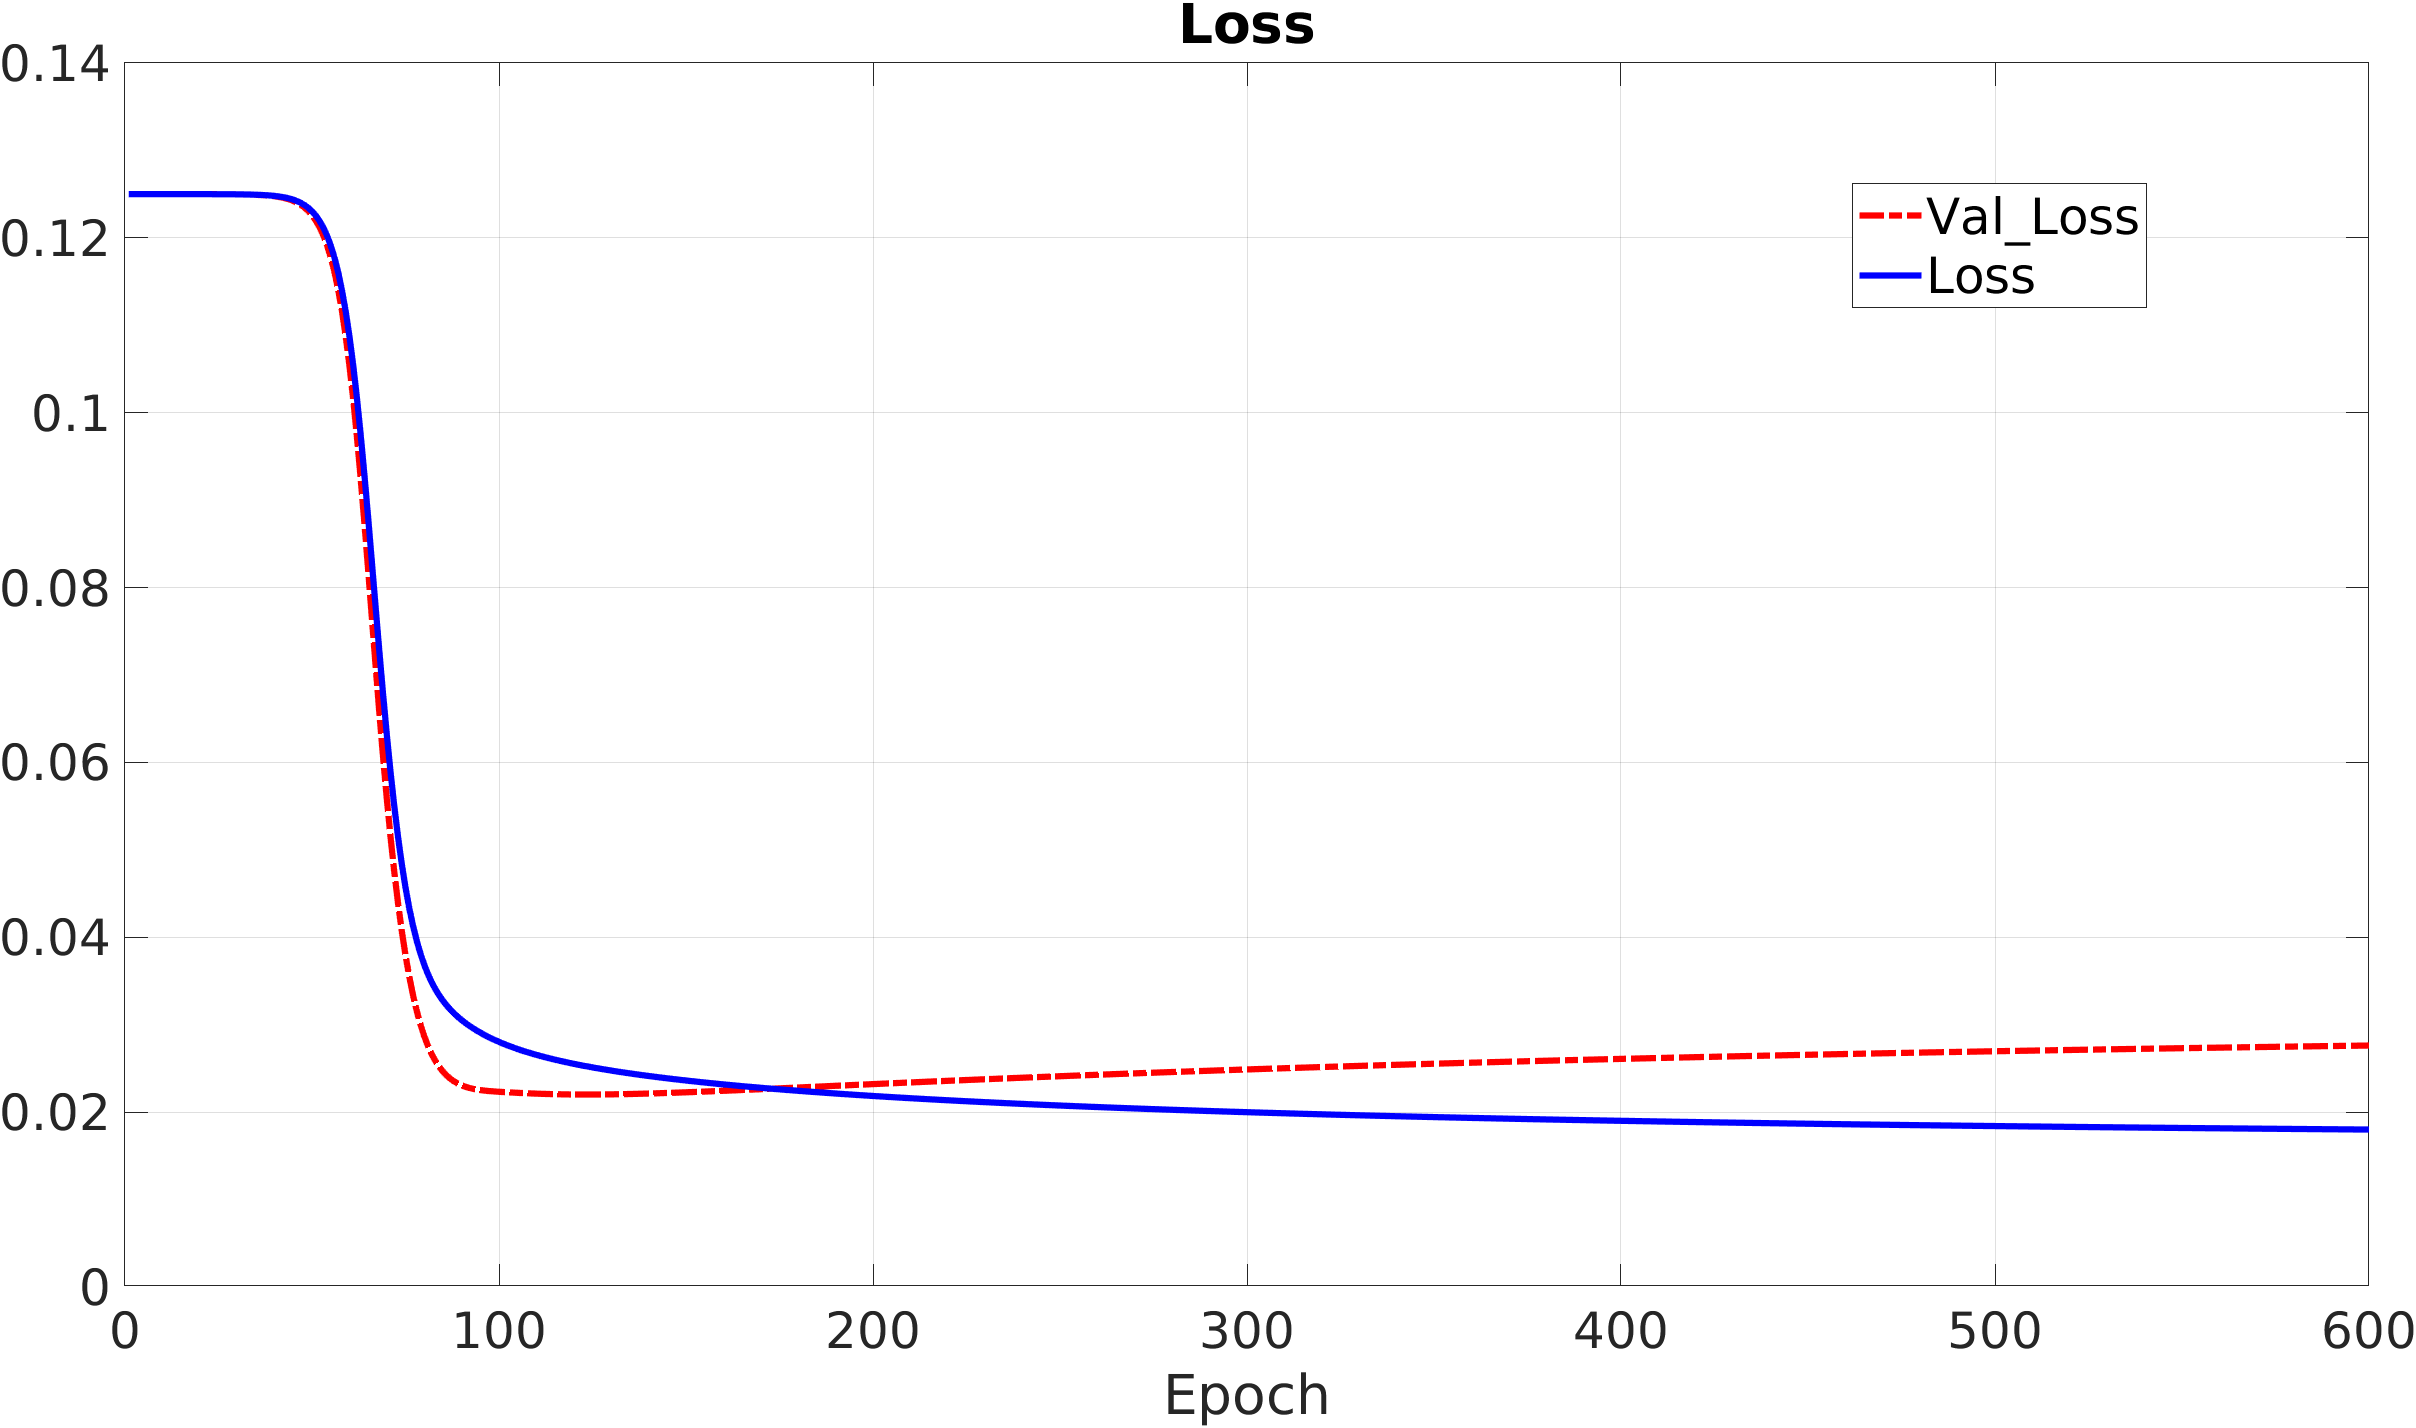
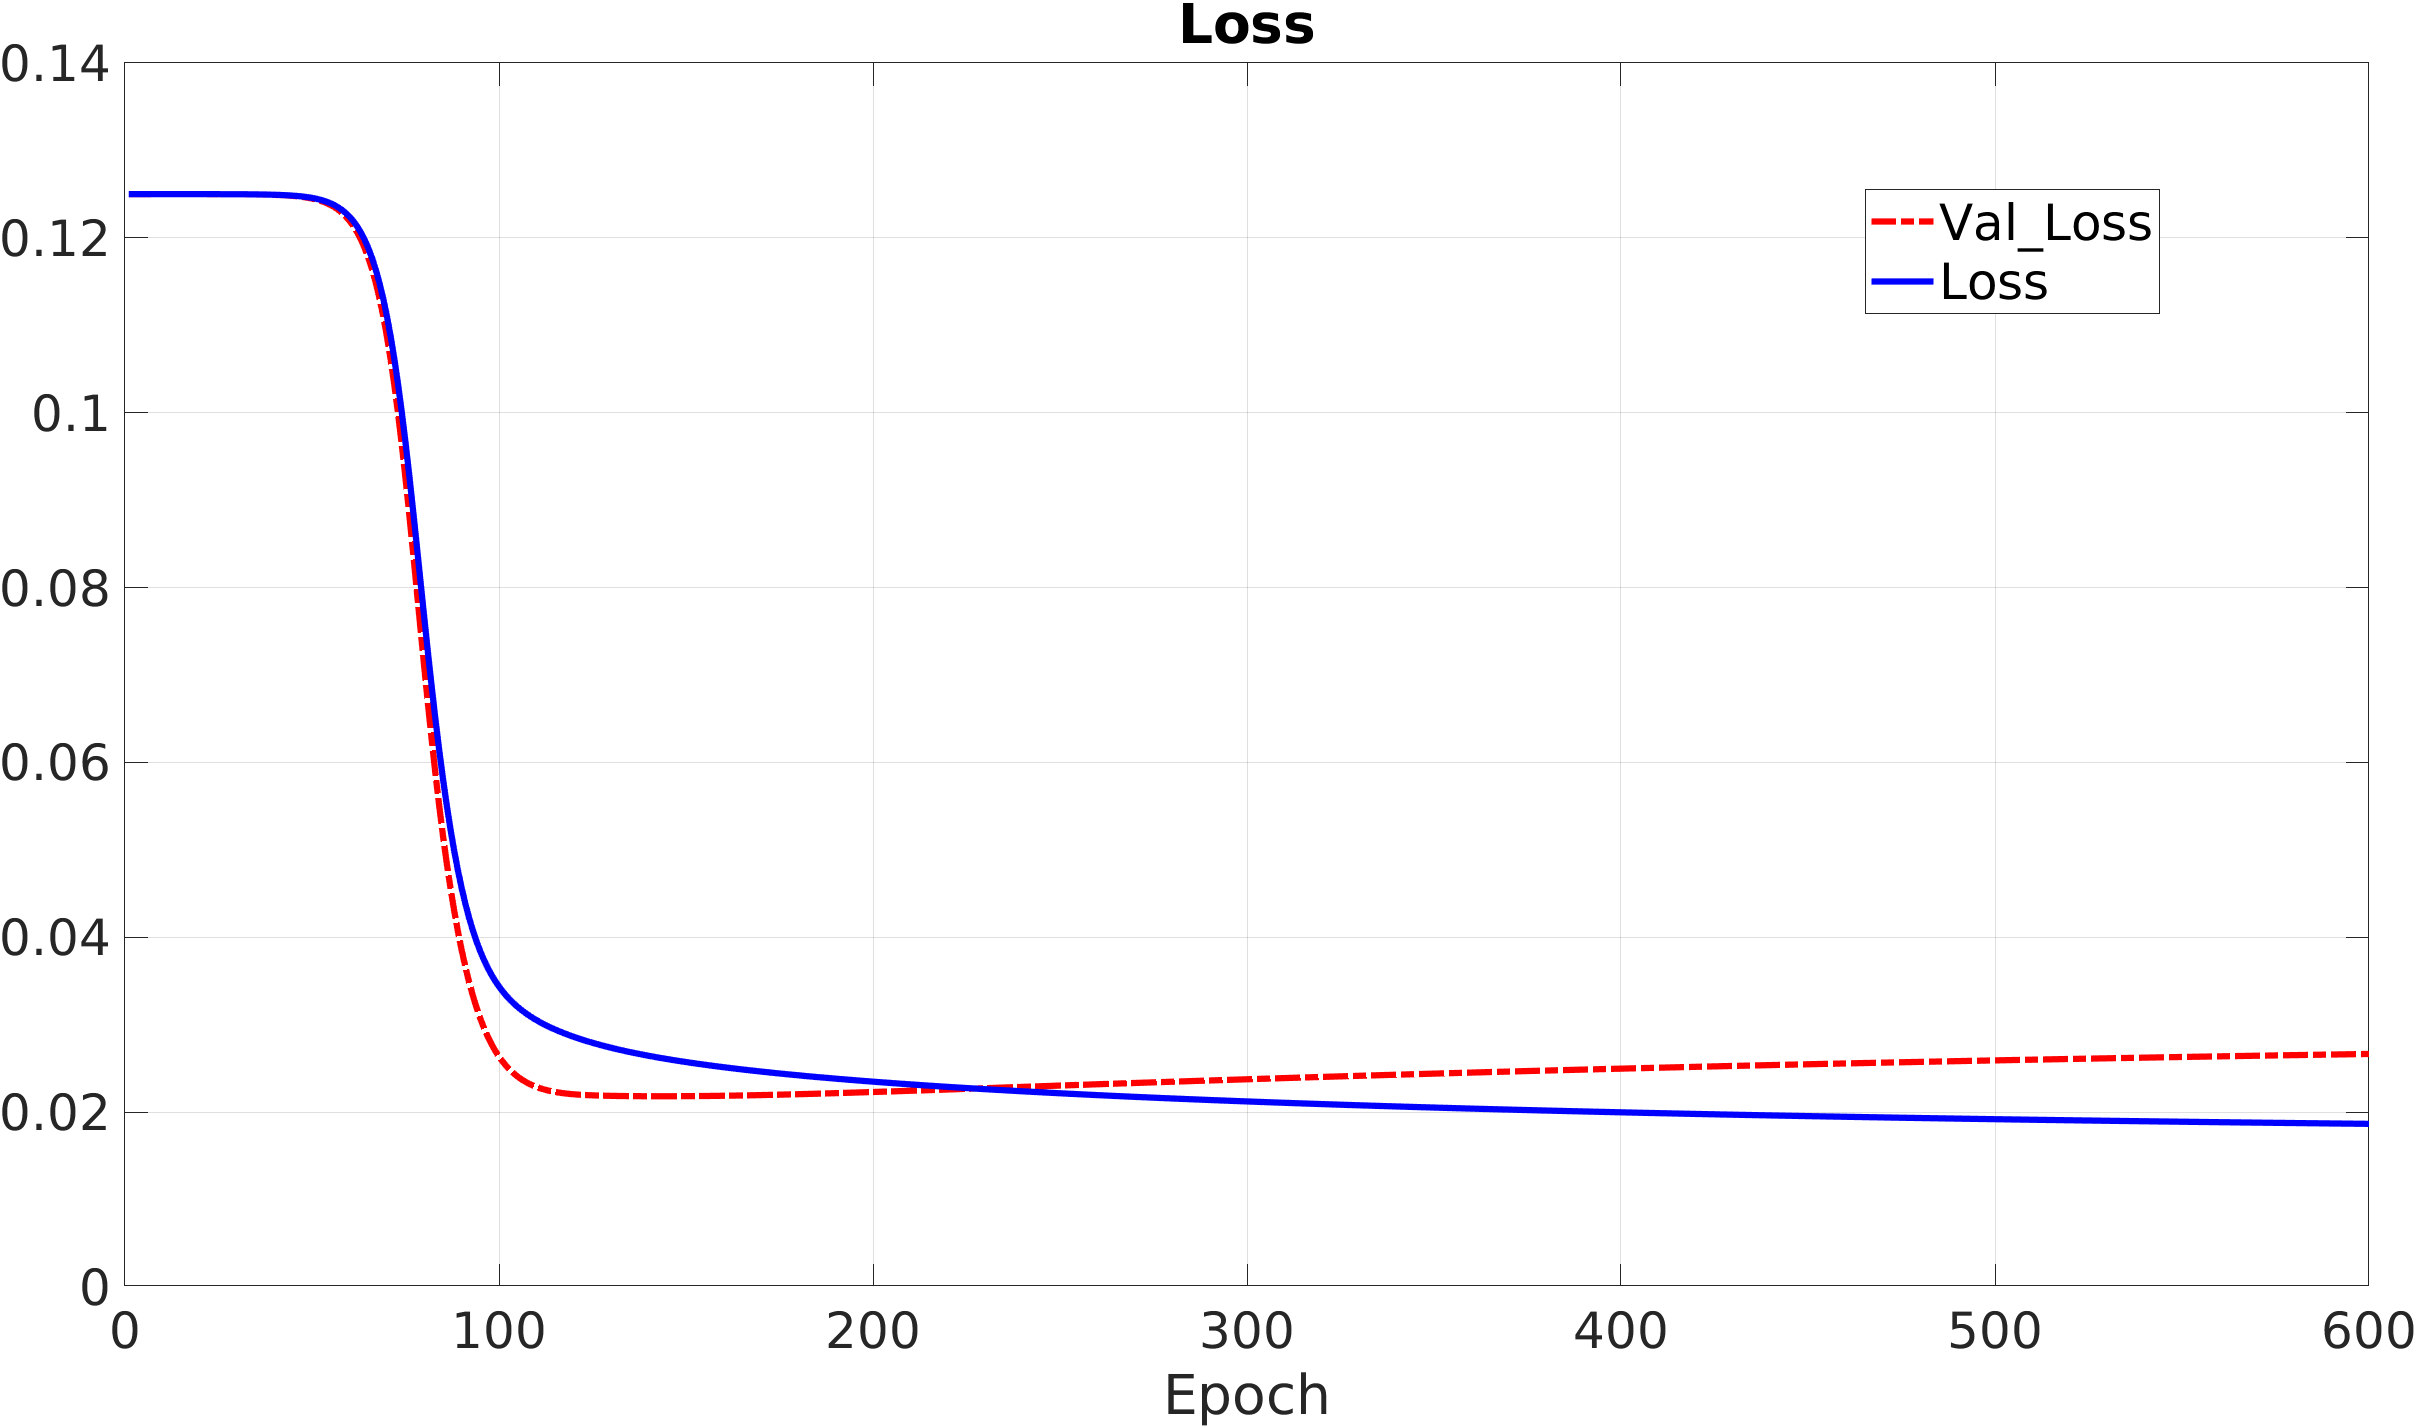
Relazione esperimenti

Changed region(s): [[0.1242, 0.1232, 0.9934, 0.8011], [0.7761, 0.1232, 0.9002, 0.2157]]

diff --git a/docs/report/sez/experiments.tex b/docs/report/sez/experiments.tex
@@ -3,7 +3,7 @@
 
 \subsection{MONK's results}
 
-The neural network used for the problems have 17 input units, number of hidden units as written in the table \ref{tab:dati} and 1 output units. We used \texttt{tanh} as hidden layer activation function and \texttt{sigmoid} as output layer activation function. We chose \texttt{Mean squared error} as loss function. An input is classified as 1 if the output of the neural network is greater than 0.5 or 0 otherwise.\\
+The neural network used for the problems have 17 input units, the number of hidden units as written in the table \ref{tab:dati} and 1 output units. We used \texttt{tanh} as hidden layer activation function and \texttt{sigmoid} as output layer activation function. We chose \texttt{Mean squared error} as loss function. An input is classified as 1 if the output of the neural network is greater than 0.5 or 0 otherwise.\\
 We used stochastic, mini-batch and batch gradient descent but in the end we decided to use the batch gradient descent because loss function plots were smoother than the others.
 We also used the weight decay regularization as lambda parameter and Nesterov momentum as momentum parameter.
 \begin{table}[H]
@@ -12,8 +12,8 @@ We also used the weight decay regularization as lambda parameter and Nesterov mo
 \textbf{Task} &	\textbf{\#Units} &\textbf{ eta} & \textbf{lambda} &\textbf{momentum} & {\textbf{MSE(TR/TS)}} &\textbf{Accuracy(TR/TS)} \\ \hline
 MONK 1        &    3 & 0.9 & 0 & 0.7  &   6.3e-4/1e-3 &   100\%/100\%  \\ \hline
 MONK 2        &    4 & 0.8 & 0 & 0.7  &   1e-3/1.3e-3 &   100\%/100\% \\ \hline               
-MONK 3        &    5 & 0.4 &1e-3 &0.2&     4.1e-2/2.5e-2&    93.44\%/97.22\%  \\ \hline
-MONK 3 (no reg)&   5 & 0.8 &   0 &  0.7 &   1.8e-2/2.6e-2 & 95.90\%/93.51\%		\\ \hline              
+MONK 3        &    5 & 0.4 &5e-3 &0.2&     7.8e-2/5.5e-2&    93.44\%/97.22\%  \\ \hline
+MONK 3 (no reg)&   5 & 0.6 &   0 &  0.7 &   1.7e-2/2.7e-2 & 95.90\%/93.51\%		\\ \hline              
 \end{tabular}
 \caption{MONK's problems parameter and results.}
 \label{tab:dati}
@@ -48,7 +48,7 @@ MONK 3 (no reg)&   5 & 0.8 &   0 &  0.7 &   1.8e-2/2.6e-2 & 95.90\%/93.51\%		\\ 
 \end{figure}
 
 \subsubsection{MONK 3}
-We figured out during training phase that learning curves of MONK's 3 without regularization shown overfits in the output(see fig. \ref{fig:m3nr}). After that we tried with regularization and we obtained better results because the training didn't show overfitting in the validation error.
+We figured out during training phase that learning curves of MONK's 3 without regularization shown overfits in the output (see fig. \ref{fig:m3nr}). After that we tried with regularization and we obtained better results, the training didn't show overfitting in the validation error.
 \begin{figure}[H]
     \centering
     \begin{minipage}[t]{0.5\linewidth}
@@ -81,13 +81,27 @@ We figured out during training phase that learning curves of MONK's 3 without re
 
 \subsection{Cup results}
 
-
 \subsubsection{Validation schema}
-\texttt{Details of the Validation schema (model selection and evaluation schema): Splitting  TR/VL/(internal)TS (data for each set and/or the K values of the k-fold CV)  [*]}
+
+At the beginning, we splitted the dataset in training set and test set with 80\% for training and 20\% for test. For the selection of the best model, we decided to use k-fold cross validation with k equals 3. In the end we chose the best models among all the models trained during the grid search step. We used stochastic, mini-batch and batch gradient descent and we figured out that the batch type had smoother learning curves.
+
 \subsubsection{Screening phase}
-\texttt{Type of preliminary trials pursued (often summarized by text)}
+
+Firstly we tried networks with single hidden layer and we noticed that they had good results. For this reason we tuned the hyper-parameters for this type of network through grids search.
+Then we chose MEE as the loss function for validation and test set, we trained the network with MSE but we plot the results with MEE to be comparable with the learning curves of test and validation set.
+Next, we focused on find some variant of the network with more hidden layer, we did hyper-parameters tuning through grids search.
+
 \subsubsection{Explored hyper-parameters}
-\texttt{Schema and  range of explored hyper-parameters (values used for the grid search, possibly a table) [*]}
+At the beginning, we have done grids search with large interval and high step among them. When we found the right interval we started grids search for each combination of the values:
+
+\begin{itemize}
+	\item Unit $\in$ \{25, 200\} with step $\in$ \{25, 50\};
+	\item Learning rate $\in$ \{0.0001, 0.01\} with step $\in$ \{0.0001, 0.001\};
+	\item Lambda $\in$ \{0, 0.004\} with step $\in$ \{0.0001,  0.0005\};
+	\item Momentum $\in$ \{0, 0.8\} with step $\in$ \{0.05,  0.1\};
+\end{itemize}
+
+
 \subsubsection{Grid search result}
 \texttt{Grid search: TABLES of results TR/VL/(TS)i with  MEE [*]. At least the most performant cases. Tables/Plots can be used also to show some relevant trends for specific hyper-parameters changes (if you think it is significant) }
 \subsubsection{Computing time}
